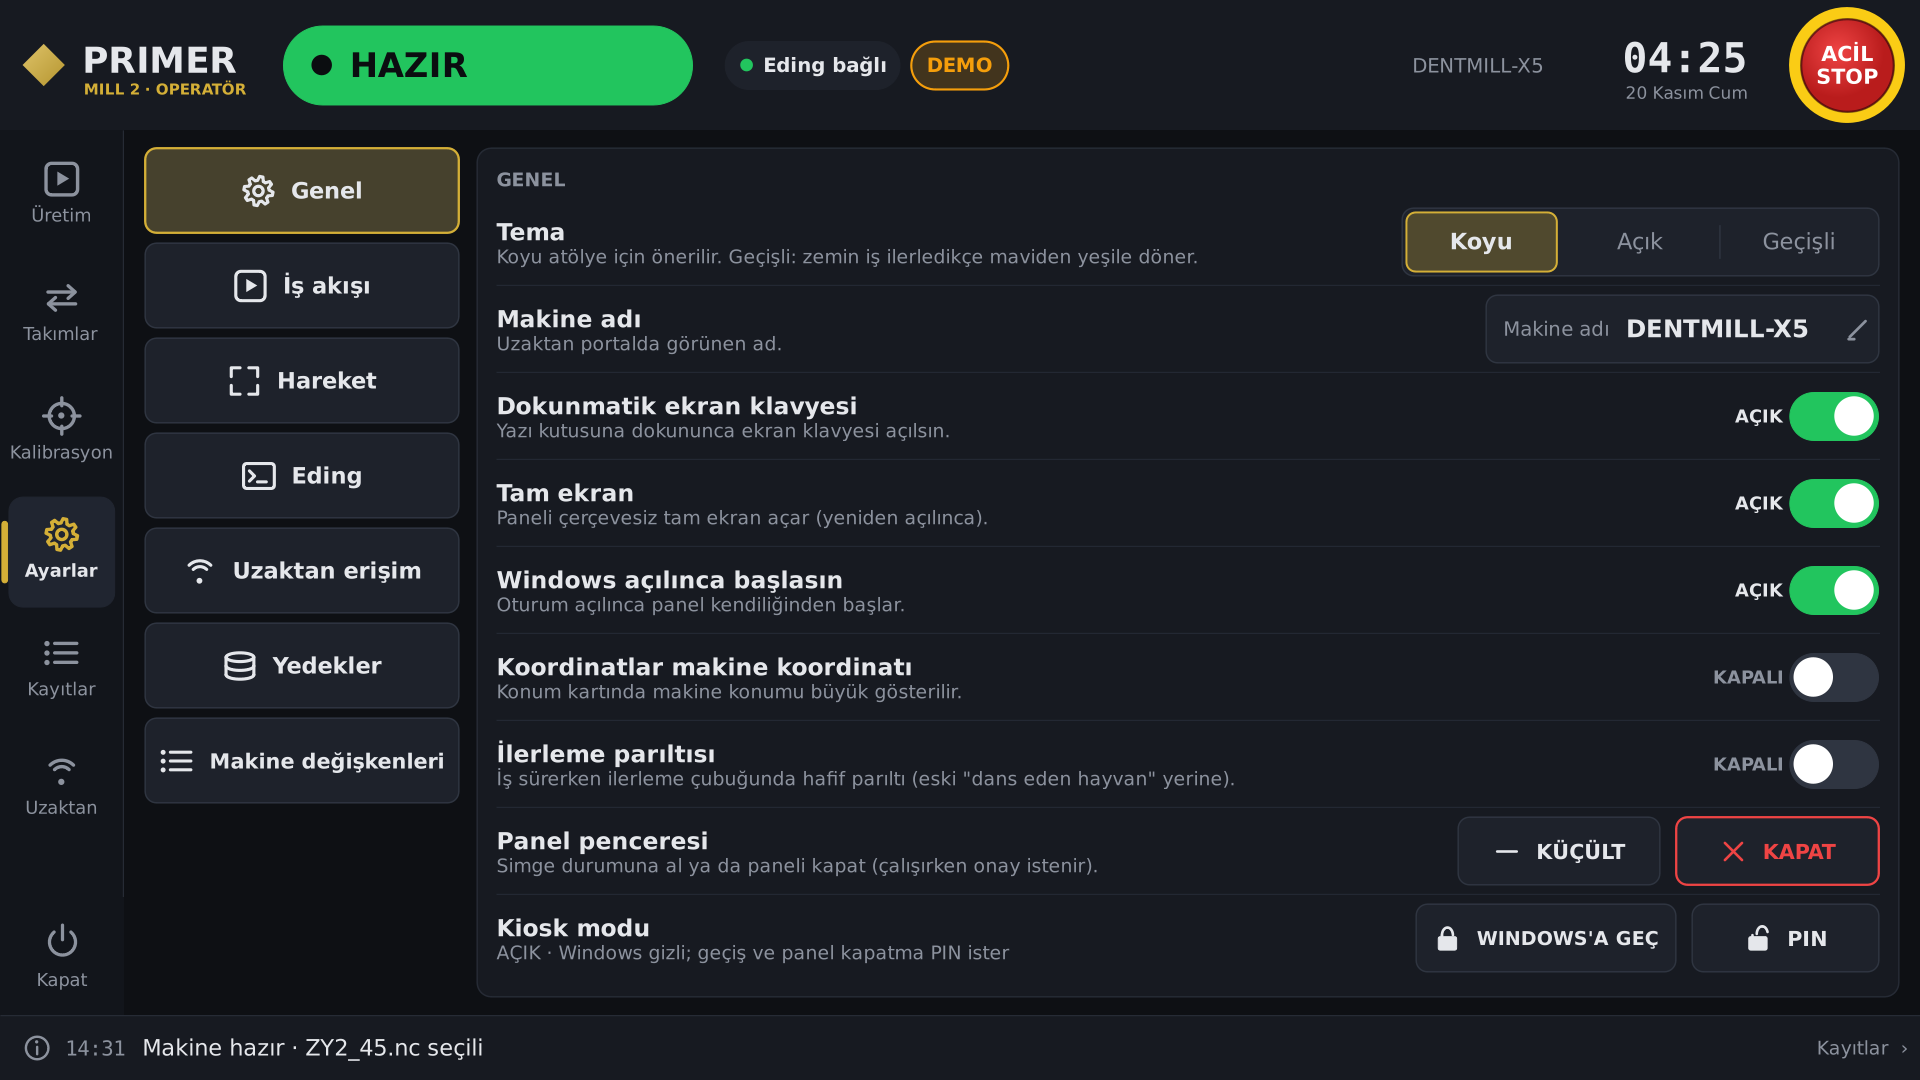
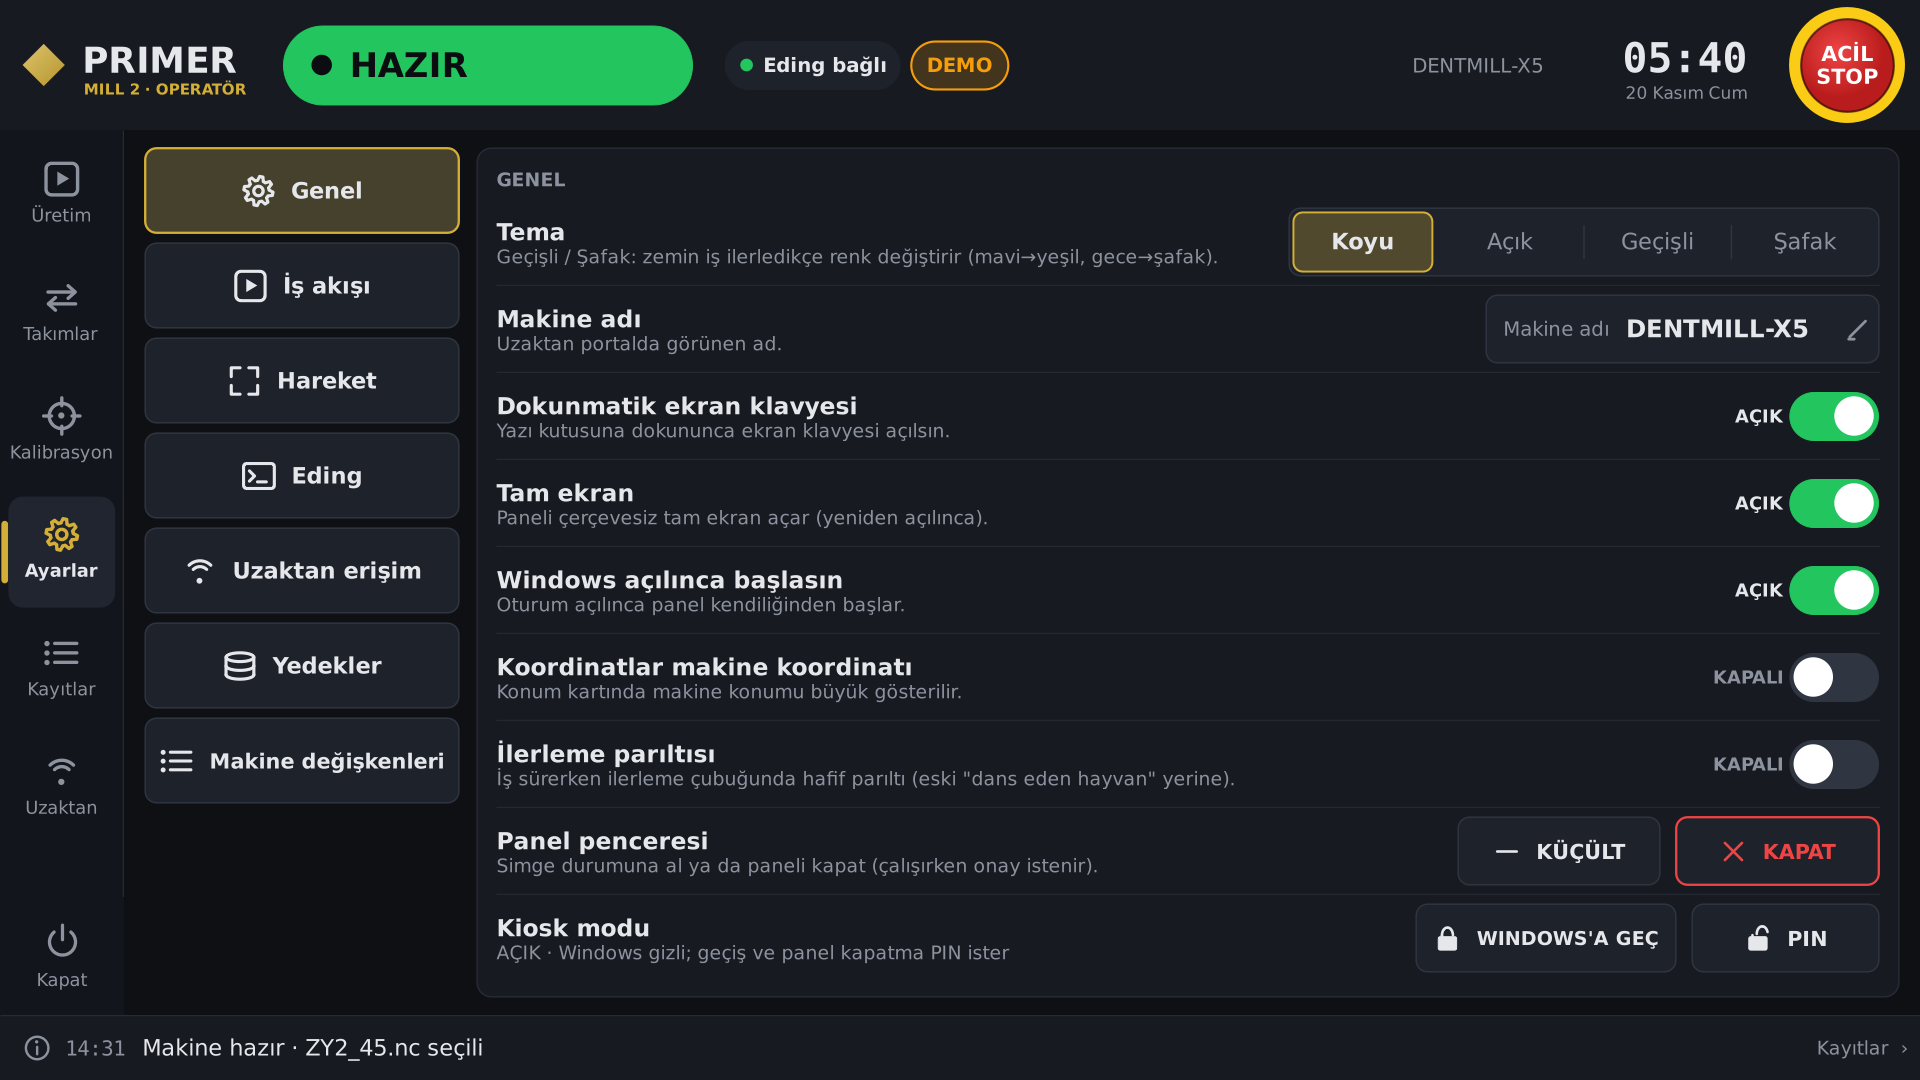
Safak temasi: testler, ekran goruntuleri ve belgeler
Denetleyici_Testi: Tema-Normalle safak, ayar.kaydet Tema=safak, ini, Ayarlar tablosu.
EkranGoruntusu.cs: Safak %0 (HAZIRLIK), %50, %100, %92 DURAKLATILDI, Ayarlar > Genel; Ayarlar > Genel
koyu/gecisli goruntuleri yenilendi (4 secenek). ARAYUZ_API.md, TASARIM.md 5, KURULUM_VE_DENEME.md.

Claude-Session: https://claude.ai/code/session_01AzwqC4ZEM5pcPdzvYXdH7g

diff --git a/PrimerMill_Kod_Inceleme/tests/ui/EkranGoruntusu.cs b/PrimerMill_Kod_Inceleme/tests/ui/EkranGoruntusu.cs
@@ -168,6 +168,13 @@ static class EkranGoruntusu
         Ekle(no() + "_uretim_gecisli_100_1024.png", 1024, 768, G, () => { var d = Bitti(); Uygula(d, IzinHazir()); Git("uretim"); });
         Ekle(no() + "_uretim_gecisli_64_1920.png", 1920, 1080, G, () => { Calisiyor(); Git("uretim"); });
         Ekle(no() + "_ayarlar_genel_gecisli_1024.png", 1024, 768, G, () => { var d = Ornek(); d.Yuzde = 30; d.Kiosk = true; d.Ayarlar["Tema"] = "gecisli"; Uygula(d, IzinCalisiyor()); Git("ayarlar.0"); });
+        // Şafak: gece çiviti (0) → erik → şafak bakırı (1). %0'da HAZIRLIK (mor hap çivit zeminde), %92'de DURAKLATILDI (kehribar hap bakır zeminde)
+        var S = TemaModu.Safak;
+        Ekle(no() + "_uretim_safak_0_1024.png", 1024, 768, S, () => { var d = Hazir(); d.Durum = Durum.Hazirlik; d.DurumMetni = "Home gerekli"; d.HomeAlindi = false; Uygula(d, IzinHazir()); Git("uretim"); });
+        Ekle(no() + "_uretim_safak_50_1024.png", 1024, 768, S, () => { var d = Ornek(); d.Yuzde = 50; d.Satir = 34876; d.GecenSn = 33 * 60; d.KalanSn = 33 * 60; Uygula(d, IzinCalisiyor()); Git("uretim"); });
+        Ekle(no() + "_uretim_safak_100_1024.png", 1024, 768, S, () => { var d = Bitti(); Uygula(d, IzinHazir()); Git("uretim"); });
+        Ekle(no() + "_uretim_safak_duraklatildi_92_1024.png", 1024, 768, S, () => { var d = Ornek(); d.Yuzde = 92; d.Durum = Durum.Duraklatildi; d.DurumMetni = "Duraklatıldı"; d.Satir = 64170; d.KalanSn = 5 * 60 + 17; d.SonMesaj = "İş duraklatıldı (satır 64 170). Devam için DEVAM."; d.SonMesajTuru = MesajTuru.Uyari; Uygula(d, IzinDuraklatildi()); Git("uretim"); });
+        Ekle(no() + "_ayarlar_genel_safak_1024.png", 1024, 768, S, () => { var d = Ornek(); d.Yuzde = 70; d.Kiosk = true; d.Ayarlar["Tema"] = "safak"; Uygula(d, IzinCalisiyor()); Git("ayarlar.0"); });
     }
 
     static IEnumerable<Control> Tum(Control k)

diff --git a/PrimerMill_Kod_Inceleme/TASARIM.md b/PrimerMill_Kod_Inceleme/TASARIM.md
@@ -144,9 +144,9 @@ Düğme durumları duruma göre değişir (tek kaynak: izin tablosu, §7):
 
 Düğmeler: dolgu = işlev rengi (BAŞLAT yeşil, DURAKLAT kehribar, DURDUR kırmızı, diğerleri kart rengi + kenar). Pasif düğme %35 opaklık. Basılıyken 1 kademe koyu. 8 px köşe yarıçapı.
 
-### Geçişli tema (3. tema)
+### İlerleme temaları: Geçişli ve Şafak
 
-Ayarlar › Genel › Tema: **Koyu / Açık / Geçişli** (`panel_ayarlar.ini` `Tema=koyu|acik|gecisli`, bilinmeyen = koyu; açılışta uygulanır). Geçişli tema koyu tabanlıdır: durum renkleri, marka altını ve düğme dolguları Koyu ile aynıdır; yalnız **yüzey belirteçleri** (zemin, kart, kart kenarı, düğme zemini/kenarı, menü, ayraç/iz, seçili, gölge) işin ilerlemesine göre **maviden yeşile** kesintisiz kayar.
+Ayarlar › Genel › Tema: **Koyu / Açık / Geçişli / Şafak** (`panel_ayarlar.ini` `Tema=koyu|acik|gecisli|safak`, bilinmeyen = koyu; açılışta uygulanır). Bir ilerleme teması = iki uç paleti (`IlerlemePaleti`); eşleme, ara renk hesabı ve yumuşatma ikisinde ortaktır. Geçişli tema koyu tabanlıdır: durum renkleri, marka altını ve düğme dolguları Koyu ile aynıdır; yalnız **yüzey belirteçleri** (zemin, kart, kart kenarı, düğme zemini/kenarı, menü, ayraç/iz, seçili, gölge) işin ilerlemesine göre **maviden yeşile** kesintisiz kayar.
 
 | Belirteç | Mavi uç (t = 0) | Yeşil uç (t = 1) |
 | --- | --- | --- |
@@ -158,8 +158,21 @@ Ayarlar › Genel › Tema: **Koyu / Açık / Geçişli** (`panel_ayarlar.ini` `
 | Ayraç (ilerleme izi) | `#1A2D5A` | `#174230` |
 | Yazı / soluk yazı | `#F3F4F6` / `#A0A7B4` | aynı |
 
-- **Eşleme:** iş bitti (`IsTamamlandi`, %100) → t = 1 (yeni dosya seçilene / panel sıfırlanana kadar tam yeşil); iş sürüyor veya duraklatıldı (`IsAktif` ve ÇALIŞIYOR/DURAKLATILDI) → t = `Yuzde`/100; iş yok → t = 0 (mavi).
-- **Ara renkler:** uçlar arasında OKLab'da doğrusal karışım (mavi → camgöbeği → yeşil; parlaklık sabit kalır, çamurlu gri geçiş yok), her 8 bitlik ara renk görünür.
+**Şafak** (aynı kurallar; gece çiviti/mor → erik → şafak bakırı, marka altınıyla uyumlu):
+
+| Belirteç | Gece ucu (t = 0) | Şafak ucu (t = 1) |
+| --- | --- | --- |
+| Zemin | `#0E0B26` | `#1B1007` |
+| Kart | `#18133B` | `#2A1A0D` |
+| Kart kenarı | `#2C2563` | `#57381C` |
+| Düğme / kenar | `#211B4A` / `#362E72` | `#352112` / `#64421F` |
+| Menü | `#120E2F` | `#22150A` |
+| Ayraç (ilerleme izi) | `#272056` | `#4A2F17` |
+
+Çivit ve bakır zıt tonlar olduğundan Şafak OKLCh'de karışır (ton açısı kısa yoldan erik/kızıl üzerinden döner; OKLab'da orta nokta griye düşerdi). Yazı/kart ≥ 15:1, yazı/düğme ≥ 13,8:1. Kehribar DURAKLATILDI hapı ve altın vurgular bakır uçta, mor HAZIRLIK hapı çivit uçta ince açık çerçeveyle ayrışır (ekran görüntüleri 73–77).
+
+- **Eşleme:** iş bitti (`IsTamamlandi`, %100) → t = 1 (yeni dosya seçilene / panel sıfırlanana kadar uç renk: tam yeşil / tam bakır); iş sürüyor veya duraklatıldı (`IsAktif` ve ÇALIŞIYOR/DURAKLATILDI) → t = `Yuzde`/100; iş yok → t = 0 (mavi / gece çiviti).
+- **Ara renkler (Geçişli):** uçlar arasında OKLab'da doğrusal karışım (mavi → camgöbeği → yeşil; parlaklık sabit kalır, çamurlu gri geçiş yok), her 8 bitlik ara renk görünür.
 - **Hareket:** denetleyici `Yuzde`'yi 200 ms'de bir verir; Kabuk'taki 33 ms'lik zamanlayıcı gösterilen t'yi üstel yumuşatmayla (τ ≈ 0,45 s) hedefe taşır, yalnız 8 bitlik renk değişen karelerde yüzeyleri yeniden boyar ve |hedef − gösterilen| < 0,001 olunca durur (boşta CPU yükü yok). Koyu ve Açık temada zamanlayıcı hiç çalışmaz.
 - **Kontrast:** yazı/kart kontrastı her t'de Koyu temadakinden düşük değil (≥ 14:1; soluk yazı ≥ 6,7:1). Renkli zeminde durum hapı ve ilerleme çubuğu ince yarı saydam beyaz çerçeveyle ayrışır (ÇALIŞIYOR mavi hap mavi zeminde, HAZIR yeşil hap yeşil zeminde).
 
@@ -170,7 +183,7 @@ Ayarlar › Genel › Tema: **Koyu / Açık / Geçişli** (`panel_ayarlar.ini` `
 
 ### Hareket
 
-Geçişler 150 ms (ekran değişiminde içerik solarak gelir, ilerleme çubuğu yumuşak ilerler). Alarmda durum hapı 1 Hz yanıp söner. Geçişli temada zemin rengi ilerlemeyle yavaşça kayar (yukarıda). Başka animasyon yok.
+Geçişler 150 ms (ekran değişiminde içerik solarak gelir, ilerleme çubuğu yumuşak ilerler). Alarmda durum hapı 1 Hz yanıp söner. İlerleme temalarında (Geçişli, Şafak) zemin rengi ilerlemeyle yavaşça kayar (yukarıda). Başka animasyon yok.
 
 ## 6. Onay düzeyleri
 

diff --git a/PrimerMill_Kod_Inceleme/KURULUM_VE_DENEME.md b/PrimerMill_Kod_Inceleme/KURULUM_VE_DENEME.md
@@ -29,7 +29,7 @@ teslim/
    - Açılış geri sayımı: süre dolunca **hiçbir şey yapmamalı** (yeni güvenlik); ŞİMDİ BAŞLA → home.
    - İŞ SEÇ → `ORNEK_ZY2_45_kisa` → BAŞLAT → DURAKLAT. Duraklıyken jog, pens aç, MDI, G54 kaydet **soluk ve nedenli** olmalı. DEVAM → iş biter.
    - Takımlar, Kalibrasyon (otomatik sihirbaz prob testi geçmeden ② adımından ileri gitmemeli), Ayarlar › Makine değişkenleri (KAYDET → kırmızı tehlikeli onay, eski/yeni değerler, yedek dosya adı), Kayıtlar (MDI onayı), Uzaktan (`http://127.0.0.1:8080`, 6 haneli PIN).
-   - Ayarlar › Genel › Tema › **Geçişli**: zemin maviye döner; iş başlatılınca yüzde ilerledikçe zemin ve kartlar sıçramadan camgöbeği üzerinden yeşile kaymalı, iş bitince tam yeşil kalmalı, yeni dosya seçilince yavaşça maviye dönmeli. Yazılar ve durum hapı her renkte okunur olmalı. Panel kapatılıp açılınca tema korunmalı (`panel_ayarlar.ini` `Tema=gecisli`). Koyu/Açık'a dönüş anında olmalı.
+   - Ayarlar › Genel › Tema › **Geçişli**: zemin maviye döner; iş başlatılınca yüzde ilerledikçe zemin ve kartlar sıçramadan camgöbeği üzerinden yeşile kaymalı, iş bitince tam yeşil kalmalı, yeni dosya seçilince yavaşça maviye dönmeli. Yazılar ve durum hapı her renkte okunur olmalı. Panel kapatılıp açılınca tema korunmalı (`panel_ayarlar.ini` `Tema=gecisli`). Koyu/Açık'a dönüş anında olmalı. **Şafak** için aynısı: gece çiviti → erik → bakır; seçim düğmesinde dört seçenek ("Koyu / Açık / Geçişli / Şafak") kesilmeden okunmalı.
    - Herhangi bir diyalogda **Esc = ACİL STOP** olmalı.
    - `teslim\PrimerMill\loglar\Panel_*.log` içinde `PROGRAM HATASI` satırı olmamalı.
    Sorun görürseniz `HataBul.bat` çalıştırıp çıkan metni ve log dosyasını saklayın.
